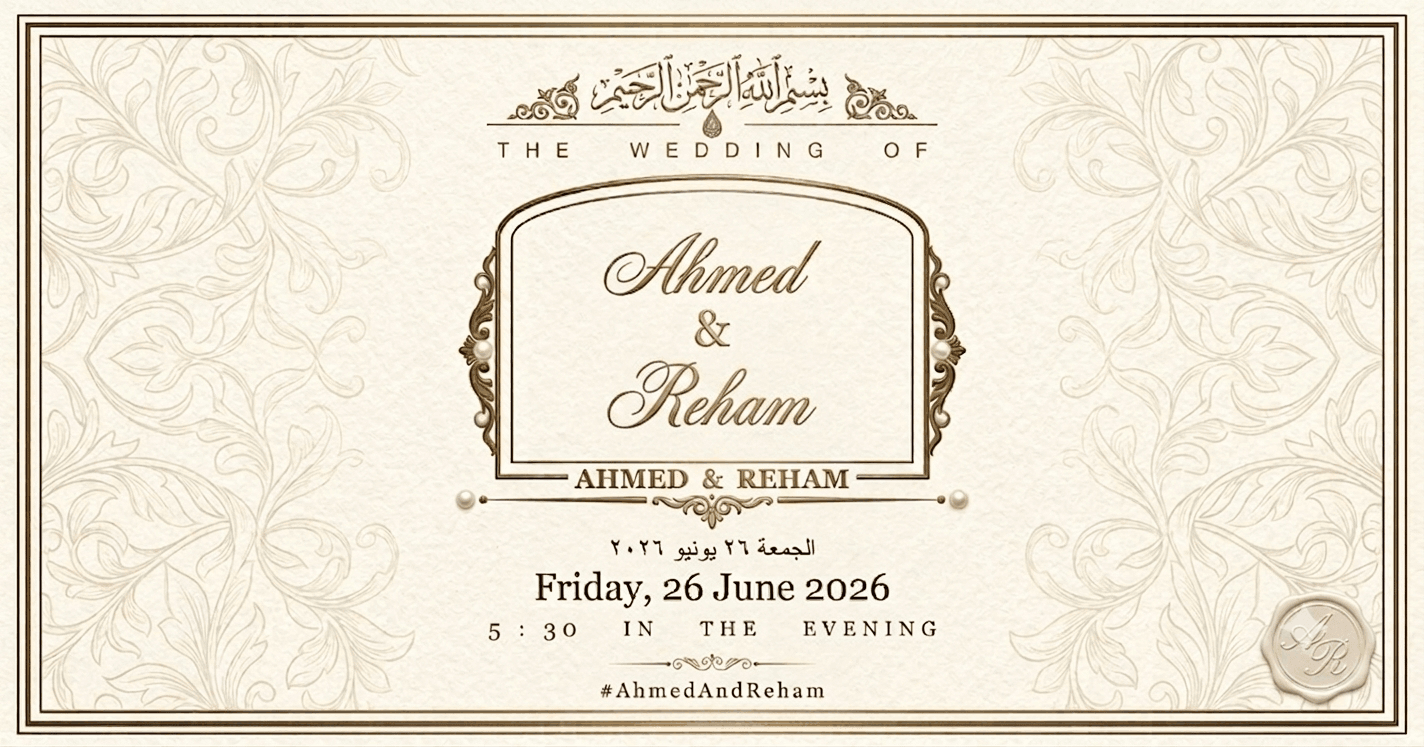
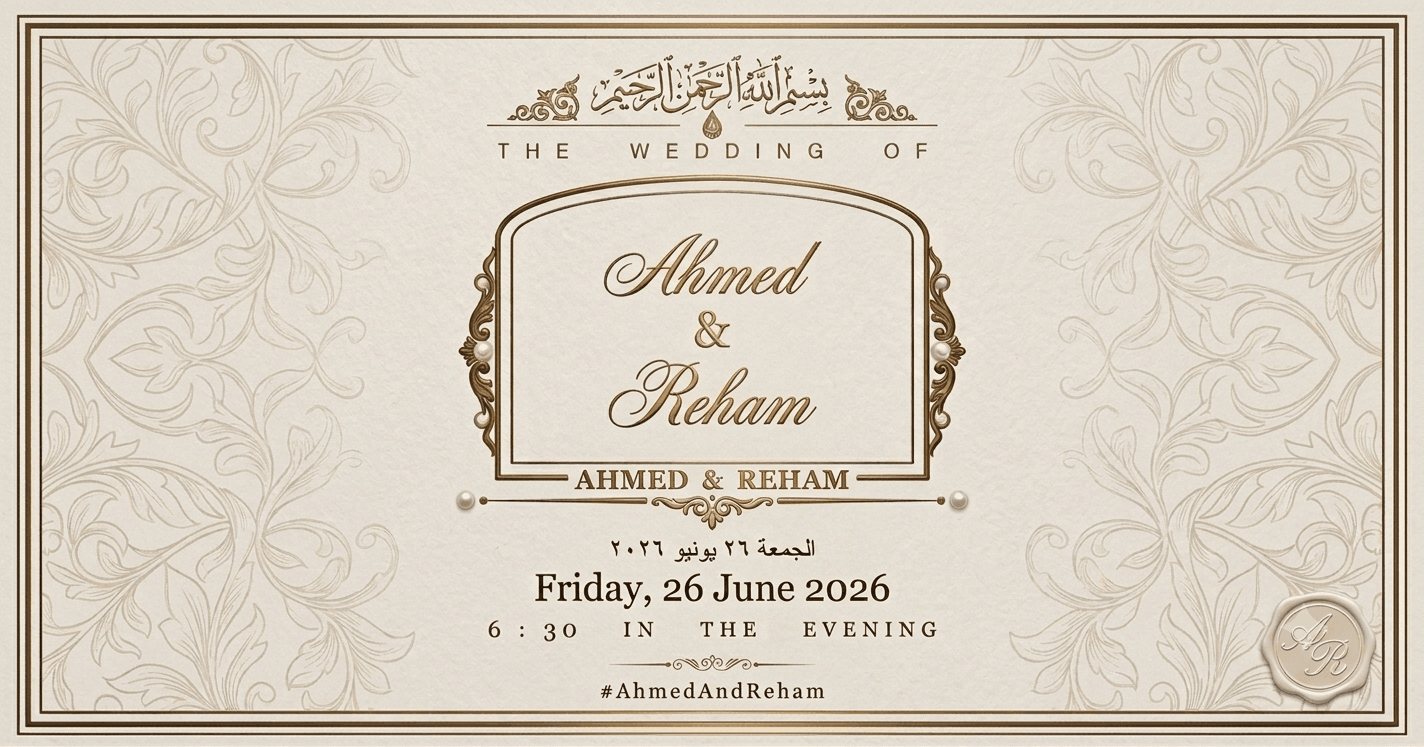
changed leaf to flower and translation

diff --git a/index.html b/index.html
@@ -2,44 +2,85 @@
 <html lang="en">
   <head>
     <meta charset="UTF-8" />
-    <meta name="viewport" content="width=device-width, initial-scale=1.0, viewport-fit=cover" />
-    <meta name="description" content="أحمد وريهام — دعوة زفاف | Ahmed &amp; Reham — Wedding Invitation" />
-    <title>أحمد وريهام — دعوة زفاف | Ahmed &amp; Reham — Wedding Invitation</title>
+    <meta
+      name="viewport"
+      content="width=device-width, initial-scale=1.0, viewport-fit=cover"
+    />
+    <meta
+      name="description"
+      content="أحمد وريهام — عقد قران  | Ahmed &amp; Reham — Wedding Invitation"
+    />
+    <title>
+      أحمد وريهام — عقد قران | Ahmed &amp; Reham — Wedding Invitation
+    </title>
 
     <!-- ── Social media / Open Graph ──────────────────────────────── -->
-    <meta property="og:type"        content="website" />
-    <meta property="og:site_name"   content="حفل زفاف | Wedding Invitation" />
-    <meta property="og:locale"         content="ar_AR" />
+    <meta property="og:type" content="website" />
+    <meta property="og:site_name" content=" عقد قران  | Wedding Invitation" />
+    <meta property="og:locale" content="ar_AR" />
     <meta property="og:locale:alternate" content="en_US" />
-    <meta property="og:title"
-          content="أحمد وريهام — دعوة زفاف | Ahmed &amp; Reham — Wedding Invitation"
-          id="og-title" />
-    <meta property="og:description"
-          content="يتشرّفان مع عائلتيهما بدعوتكم لحضور حفل زفافهما — الجمعة ٢٦ يونيو ٢٠٢٦ · الخامسة والنصف مساءً &#10;Together with their families, request the honour of your presence — Friday, 26 June 2026 · 5:30 in the evening"
-          id="og-desc" />
-    <meta property="og:image"       content="https://ahemd-reham.s-yosef-mostafa.workers.dev/assets/og-image.png" id="og-image" />
-    <meta property="og:image:width"  content="1200" />
+    <meta
+      property="og:title"
+      content="أحمد وريهام — عقد قران  | Ahmed &amp; Reham — Wedding Invitation"
+      id="og-title"
+    />
+    <meta
+      property="og:description"
+      content="يتشرّفان مع عائلتيهما بدعوتكم لحضور حفل زفافهما — الجمعة ٢٦ يونيو ٢٠٢٦ · الخامسة والنصف مساءً &#10;Together with their families, request the honour of your presence — Friday, 26 June 2026 · 5:30 in the evening"
+      id="og-desc"
+    />
+    <meta
+      property="og:image"
+      content="https://ahemd-reham.s-yosef-mostafa.workers.dev/assets/og-image.png"
+      id="og-image"
+    />
+    <meta property="og:image:width" content="1200" />
     <meta property="og:image:height" content="630" />
-    <meta property="og:image:type"   content="image/png" />
-    <meta property="og:image:alt"    content="أحمد وريهام — دعوة زفاف | Ahmed &amp; Reham — Wedding Invitation, 26 June 2026" />
-    <meta property="og:url"         content="https://ahemd-reham.s-yosef-mostafa.workers.dev/" id="og-url" />
+    <meta property="og:image:type" content="image/png" />
+    <meta
+      property="og:image:alt"
+      content="أحمد وريهام — عقد قران  | Ahmed &amp; Reham — Wedding Invitation, 26 June 2026"
+    />
+    <meta
+      property="og:url"
+      content="https://ahemd-reham.s-yosef-mostafa.workers.dev/"
+      id="og-url"
+    />
 
     <!-- ── Twitter / X Card ──────────────────────────────────────── -->
-    <meta name="twitter:card"        content="summary_large_image" />
-    <meta name="twitter:title"       content="أحمد وريهام — دعوة زفاف | Ahmed &amp; Reham — Wedding Invitation" id="tw-title" />
-    <meta name="twitter:description" content="يتشرّفان مع عائلتيهما بدعوتكم لحضور حفل زفافهما — الجمعة ٢٦ يونيو ٢٠٢٦ · الخامسة والنصف مساءً &#10;Together with their families, request the honour of your presence — Friday, 26 June 2026 · 5:30 in the evening" id="tw-desc" />
-    <meta name="twitter:image"       content="https://ahemd-reham.s-yosef-mostafa.workers.dev/assets/og-image.png" id="tw-image" />
-    <meta name="twitter:image:alt"   content="أحمد وريهام — دعوة زفاف | Ahmed &amp; Reham — Wedding Invitation" />
+    <meta name="twitter:card" content="summary_large_image" />
+    <meta
+      name="twitter:title"
+      content="أحمد وريهام — عقد قران  | Ahmed &amp; Reham — Wedding Invitation"
+      id="tw-title"
+    />
+    <meta
+      name="twitter:description"
+      content="يتشرّفان مع عائلتيهما بدعوتكم لحضور حفل زفافهما — الجمعة ٢٦ يونيو ٢٠٢٦ · الخامسة والنصف مساءً &#10;Together with their families, request the honour of your presence — Friday, 26 June 2026 · 5:30 in the evening"
+      id="tw-desc"
+    />
+    <meta
+      name="twitter:image"
+      content="https://ahemd-reham.s-yosef-mostafa.workers.dev/assets/og-image.png"
+      id="tw-image"
+    />
+    <meta
+      name="twitter:image:alt"
+      content="أحمد وريهام — عقد قران  | Ahmed &amp; Reham — Wedding Invitation"
+    />
 
     <!-- ── Browser chrome ────────────────────────────────────────── -->
     <meta name="theme-color" content="#173a20" />
-    <link rel="icon" type="image/svg+xml"  href="assets/favicon.svg" />
+    <link rel="icon" type="image/svg+xml" href="assets/favicon.svg" />
     <link rel="icon" type="image/png" sizes="32x32" href="assets/favicon.png" />
-    <link rel="apple-touch-icon"           href="assets/favicon-64.png" />
+    <link rel="apple-touch-icon" href="assets/favicon-64.png" />
 
     <link rel="preconnect" href="https://fonts.googleapis.com" />
     <link rel="preconnect" href="https://fonts.gstatic.com" crossorigin />
-    <link href="https://fonts.googleapis.com/css2?family=Cormorant+Garamond:ital,wght@0,400;0,500;0,600;1,400&family=Aref+Ruqaa:wght@400;700&family=Amiri:ital,wght@0,400;1,400&family=Reem+Kufi:wght@400;500;600&display=swap" rel="stylesheet" />
+    <link
+      href="https://fonts.googleapis.com/css2?family=Cormorant+Garamond:ital,wght@0,400;0,500;0,600;1,400&family=Aref+Ruqaa:wght@400;700&family=Amiri:ital,wght@0,400;1,400&family=Reem+Kufi:wght@400;500;600&display=swap"
+      rel="stylesheet"
+    />
 
     <!-- Styles — tokens must load first -->
     <link rel="stylesheet" href="styles/tokens.css" />
@@ -112,19 +153,17 @@
             The Wedding Of
           </p>
 
-         
-
           <!-- Mihrab arch with couple names -->
           <div class="names reveal d3">
             <div class="arch">
               <div class="name-ar gold-foil" id="groom-ar"></div>
               <div class="name-en" id="groom-en"></div>
               <div class="amp gold-foil" aria-label="and">&amp;</div>
-              <div class="name-ar gold-foil" id="bride-ar"></div>
+              <div class="name-ar name-margin" id="bride-ar"></div>
               <div class="name-en" id="bride-en"></div>
             </div>
           </div>
- <!-- Invitation line (Arabic + English) -->
+          <!-- Invitation line (Arabic + English) -->
           <p class="invite-line reveal d2" id="invite-line"></p>
           <!-- Ornamental divider -->
           <div class="divider reveal d4" aria-hidden="true">
@@ -228,10 +267,21 @@
       aria-label="Toggle background music"
       title="Music"
     >
-      <svg class="music-note" viewBox="0 0 24 24" fill="none" stroke="currentColor" stroke-width="1.8" stroke-linecap="round" stroke-linejoin="round" width="22" height="22" aria-hidden="true">
-        <path d="M9 18V5l12-2v13"/>
-        <circle cx="6" cy="18" r="3"/>
-        <circle cx="18" cy="16" r="3"/>
+      <svg
+        class="music-note"
+        viewBox="0 0 24 24"
+        fill="none"
+        stroke="currentColor"
+        stroke-width="1.8"
+        stroke-linecap="round"
+        stroke-linejoin="round"
+        width="22"
+        height="22"
+        aria-hidden="true"
+      >
+        <path d="M9 18V5l12-2v13" />
+        <circle cx="6" cy="18" r="3" />
+        <circle cx="18" cy="16" r="3" />
       </svg>
       <span class="bar" aria-hidden="true"></span>
     </button>

diff --git a/config.js b/config.js
@@ -22,14 +22,14 @@ window.WEDDING_CONFIG = {
   /* ---- DATE & TIME --------------------------------------------------
      dateISO drives the LIVE COUNTDOWN — use 24-hour: YYYY-MM-DDTHH:MM:SS
      The display strings below are what people actually read. */
-  dateISO: "2026-06-26T17:30:00",
+  dateISO: "2026-06-26T18:30:00",
   date:    { en: "Friday, 26 June 2026",  ar: "الجمعة ٢٦ يونيو ٢٠٢٦" },
-  time:    { en: "5:30 in the evening",   ar: "الخامسة والنصف مساءً" },
+  time:    { en: "6:30 - 8:00 in the evening ",   ar: "السادسة والنصف  حتى الثامنة مساءً" },
 
   /* ---- INVITATION LINE ---------------------------------------------- */
   invite: {
-    en: "Together with their families, request the honour of your presence at the celebration of their marriage",
-    ar: "يتشرّفان مع عائلتيهما بدعوتكم لحضور حفل زفافهما"
+    en: "Together request the honour of your presence at the celebration of their marriage",
+    ar: "يتشرّفان بدعوتكم لحضور عقد قرانهما"
   },
 
   /* ---- VENUE --------------------------------------------------------

diff --git a/scripts/petals.js b/scripts/petals.js
@@ -16,18 +16,14 @@ function initPetals(config) {
     var p = document.createElement('span');
     p.className = 'petal';
 
-    var size = 6 + Math.random() * 12;
+    var size = 14 + Math.random() * 16;
     p.style.left             = (Math.random() * 100) + '%';
     p.style.width            = size + 'px';
     p.style.height           = size + 'px';
     p.style.setProperty('--drift', (Math.random() * 120 - 60) + 'px');
     p.style.animationDuration = (8 + Math.random() * 9) + 's';
     p.style.animationDelay    = (-Math.random() * 12) + 's';
-    p.style.opacity           = (0.45 + Math.random() * 0.4);
-
-    if (Math.random() > 0.5) {
-      p.style.borderRadius = '100% 0 100% 0';
-    }
+    p.style.opacity           = (0.55 + Math.random() * 0.35);
 
     container.appendChild(p);
   }

diff --git a/styles/components.css b/styles/components.css
@@ -9,6 +9,9 @@
   background-clip: text;
   color: transparent;
 }
+.name-margin {
+  margin-bottom: 0.5em;
+}
 
 /* ================================================================
    TENNIS COURT OPENER
@@ -224,6 +227,7 @@
   font-family: var(--ar-display);
   font-size: clamp(40px, 12vw, 72px);
   line-height: 1.05;
+  
 }
 .name-en {
   font-family: var(--serif);
@@ -367,8 +371,8 @@
   position: absolute;
   top: -6%;
   width: 12px; height: 12px;
-  background: var(--clay-gradient);
-  border-radius: 0 100% 0 100%;
+  background: url('../assets/rose.png') center / contain no-repeat;
+  border-radius: 0;
   opacity: 0;
   will-change: transform;
   animation: petal-fall linear infinite;
